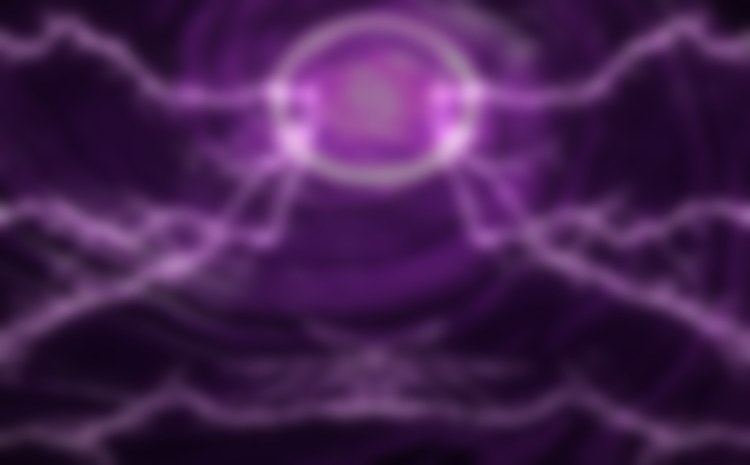
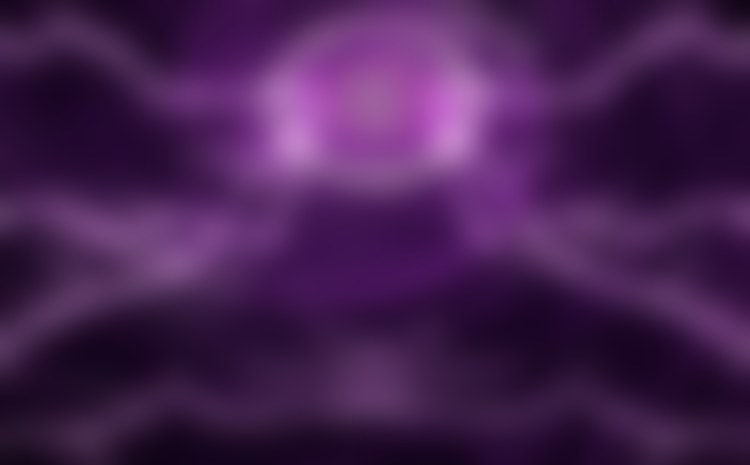
UI: 5 styles epures (arrondis discrets, contours fins, panneaux plus transparents), verre depoli corrige sur tous les panneaux
Claude-Session: https://claude.ai/code/session_01WXkH3vdqsA8W9qnrahLDz9

diff --git a/Source/ui/Widgets.h b/Source/ui/Widgets.h
@@ -9,7 +9,7 @@ namespace octoui
     // Panneau « cartoon » : fond arrondi, ombre portée, titre en petites capitales
     //==========================================================================
     inline void drawPanel (juce::Graphics& g, juce::Rectangle<float> r, const juce::String& title, bool accent = false,
-                           juce::Point<float> origin = {})
+                           juce::Point<float> origin = {}, float alphaOverride = -1.0f)
     {
         using namespace OctoColours;
         const auto& L = OctoLook::get();
@@ -18,7 +18,8 @@ namespace octoui
         const bool straddle = title.isNotEmpty() && (L.title == 1 || L.title == 3);
         auto inner = r.withTrimmedRight (L.shadow == 1 ? 3.0f : 0.0f).withTrimmedBottom (L.shadow == 1 ? 3.0f : 0.0f)
                       .withTrimmedTop (straddle ? 8.0f : 0.0f);
-        OctoLook::shape (g, inner, L.panelR, fill.withMultipliedAlpha (OctoDecor::get().panelAlpha), 1.0f, &origin);
+        const float alpha = alphaOverride >= 0.0f ? alphaOverride : (L.alpha >= 0.0f ? L.alpha : OctoDecor::get().panelAlpha);
+        OctoLook::shape (g, inner, L.panelR, fill.withMultipliedAlpha (alpha), 1.0f, &origin);
 
         // Vis aux coins (style rack)
         if (L.screws)
@@ -70,6 +71,32 @@ namespace octoui
                 g.setColour (accent ? onSlime() : ink);
                 g.setFont (f);
                 g.drawText (title, tag, juce::Justification::centred);
+                break;
+            }
+            case 4:   // épuré : petites capitales espacées + filet fin jusqu'au bord
+            {
+                const juce::Font tf (juce::FontOptions (10.5f, juce::Font::bold));
+                juce::String spaced; for (auto ch : title) { spaced << juce::String::charToString (ch) << " "; }
+                spaced = spaced.trimEnd();
+                const float w = juce::GlyphArrangement::getStringWidth (tf, spaced);
+                auto t = juce::Rectangle<float> (inner.getX() + 12.0f, inner.getY() + 5.0f, w + 4.0f, 13.0f);
+                g.setColour (accent ? slime.darker (0.3f) : ink.withAlpha (0.85f));
+                g.setFont (tf);
+                g.drawText (spaced, t, juce::Justification::centredLeft);
+                g.setColour ((L.lightOutline ? juce::Colour (0xfffff8ec) : ink).withAlpha (0.35f));
+                g.drawLine (t.getRight() + 6.0f, t.getCentreY(), inner.getRight() - 12.0f, t.getCentreY(), 1.0f);
+                break;
+            }
+            case 5:   // pastille compacte à l'intérieur
+            {
+                const juce::Font tf (juce::FontOptions (10.5f, juce::Font::bold));
+                const float w = juce::GlyphArrangement::getStringWidth (tf, title) + 14.0f;
+                auto t = juce::Rectangle<float> (inner.getX() + 10.0f, inner.getY() + 5.0f, w, 15.0f);
+                g.setColour (accent ? slime : ink.withAlpha (0.85f));
+                g.fillRoundedRectangle (t, 7.5f);
+                g.setColour (accent ? onSlime() : juce::Colour (0xfff6efdf));
+                g.setFont (tf);
+                g.drawText (title, t, juce::Justification::centred);
                 break;
             }
             default:

diff --git a/Source/ui/Palette.h b/Source/ui/Palette.h
@@ -102,7 +102,11 @@ namespace OctoLook
         float outline;    // épaisseur des contours
         int   shadow;     // 0 douce, 1 décalée « impression », 2 aucune
         bool  screws;     // vis aux coins des panneaux (façon rack)
-        int   title;      // 0 simple, 1 étiquette pleine, 2 gravé souligné, 3 bulle
+        int   title;      // 0 simple, 1 étiquette pleine, 2 gravé souligné, 3 bulle, 4 épuré + filet, 5 pastille
+        float alpha = -1.0f;        // opacité des panneaux (-1 = celle du décor)
+        float seqAlpha = -1.0f;     // opacité du panneau séquenceur
+        float outlineAlpha = 1.0f;  // opacité des contours
+        bool  lightOutline = false; // contour clair (verre) au lieu de l'encre
     };
 
     inline const Look looks[] =
@@ -110,6 +114,11 @@ namespace OctoLook
         { "Atelier (impression)", 1,  6.0f, 4.0f, 2.0f, 1, false, 1 },
         { "Rack vintage",         3,  2.0f, 3.0f, 1.5f, 2, true,  2 },
         { "BD bulles",            5, 16.0f, 10.0f, 2.5f, 1, false, 3 },
+        { "Epure A - verre clair",    5, 6.0f, 5.0f, 1.0f, 2, false, 4, 0.50f, 0.86f, 0.55f, true  },
+        { "Epure B - trait d'encre",  5, 4.0f, 4.0f, 1.2f, 2, false, 4, 0.58f, 0.88f, 0.70f, false },
+        { "Epure C - sans contour",   5, 8.0f, 6.0f, 0.0f, 0, false, 5, 0.45f, 0.86f, 0.0f,  false },
+        { "Epure D - BD allege",      5, 8.0f, 7.0f, 2.0f, 1, false, 3, 0.50f, 0.88f, 1.0f,  false },
+        { "Epure E - tres transparent", 5, 5.0f, 4.0f, 1.0f, 2, false, 4, 0.32f, 0.80f, 0.6f, true  },
     };
     inline constexpr int numLooks = (int) (sizeof (looks) / sizeof (looks[0]));
     inline int current = 2;
@@ -141,8 +150,11 @@ namespace OctoLook
         }
         g.setColour (fill);
         g.fillRoundedRectangle (r, radius);
-        g.setColour (ink);
-        g.drawRoundedRectangle (r, radius, L.outline * outlineScale);
+        if (L.outline > 0.0f && L.outlineAlpha > 0.0f)
+        {
+            g.setColour ((L.lightOutline ? juce::Colour (0xfffff8ec) : ink).withAlpha (L.outlineAlpha));
+            g.drawRoundedRectangle (r, radius, L.outline * juce::jmax (1.0f, outlineScale));
+        }
     }
 }
 
@@ -302,9 +314,10 @@ namespace OctoDecor
     {
         if (get().bolts != 6 || ! bgBlur.isValid()) return false;
         juce::Graphics::ScopedSaveState ss (g);
-        g.reduceClipRegion (shape);
-        g.addTransform (juce::AffineTransform::translation (-origin.x, -origin.y));
-        g.drawImage (bgBlur, { 0.0f, 0.0f, 1000.0f, 620.0f }, juce::RectanglePlacement::stretchToFit);
+        const auto xf = juce::AffineTransform::scale (1000.0f / (float) bgBlur.getWidth(), 620.0f / (float) bgBlur.getHeight())
+                            .translated (-origin.x, -origin.y);
+        g.setFillType (juce::FillType (bgBlur, xf));
+        g.fillPath (shape);
         return true;
     }
 }

diff --git a/Source/ui/SequencerView.cpp b/Source/ui/SequencerView.cpp
@@ -653,7 +653,7 @@ void SequencerView::paint (juce::Graphics& g)
     using namespace OctoColours;
     using octocid::Gate;
 
-    octoui::drawPanel (g, getLocalBounds().toFloat().reduced (1.0f), {}, false, getPosition().toFloat());
+    octoui::drawPanel (g, getLocalBounds().toFloat().reduced (1.0f), {}, false, getPosition().toFloat(), OctoLook::get().seqAlpha);
 
     const int nVis = visibleSteps();
     const bool showPlayhead = playingStep >= 0 && playingPattern == shownIndex;
